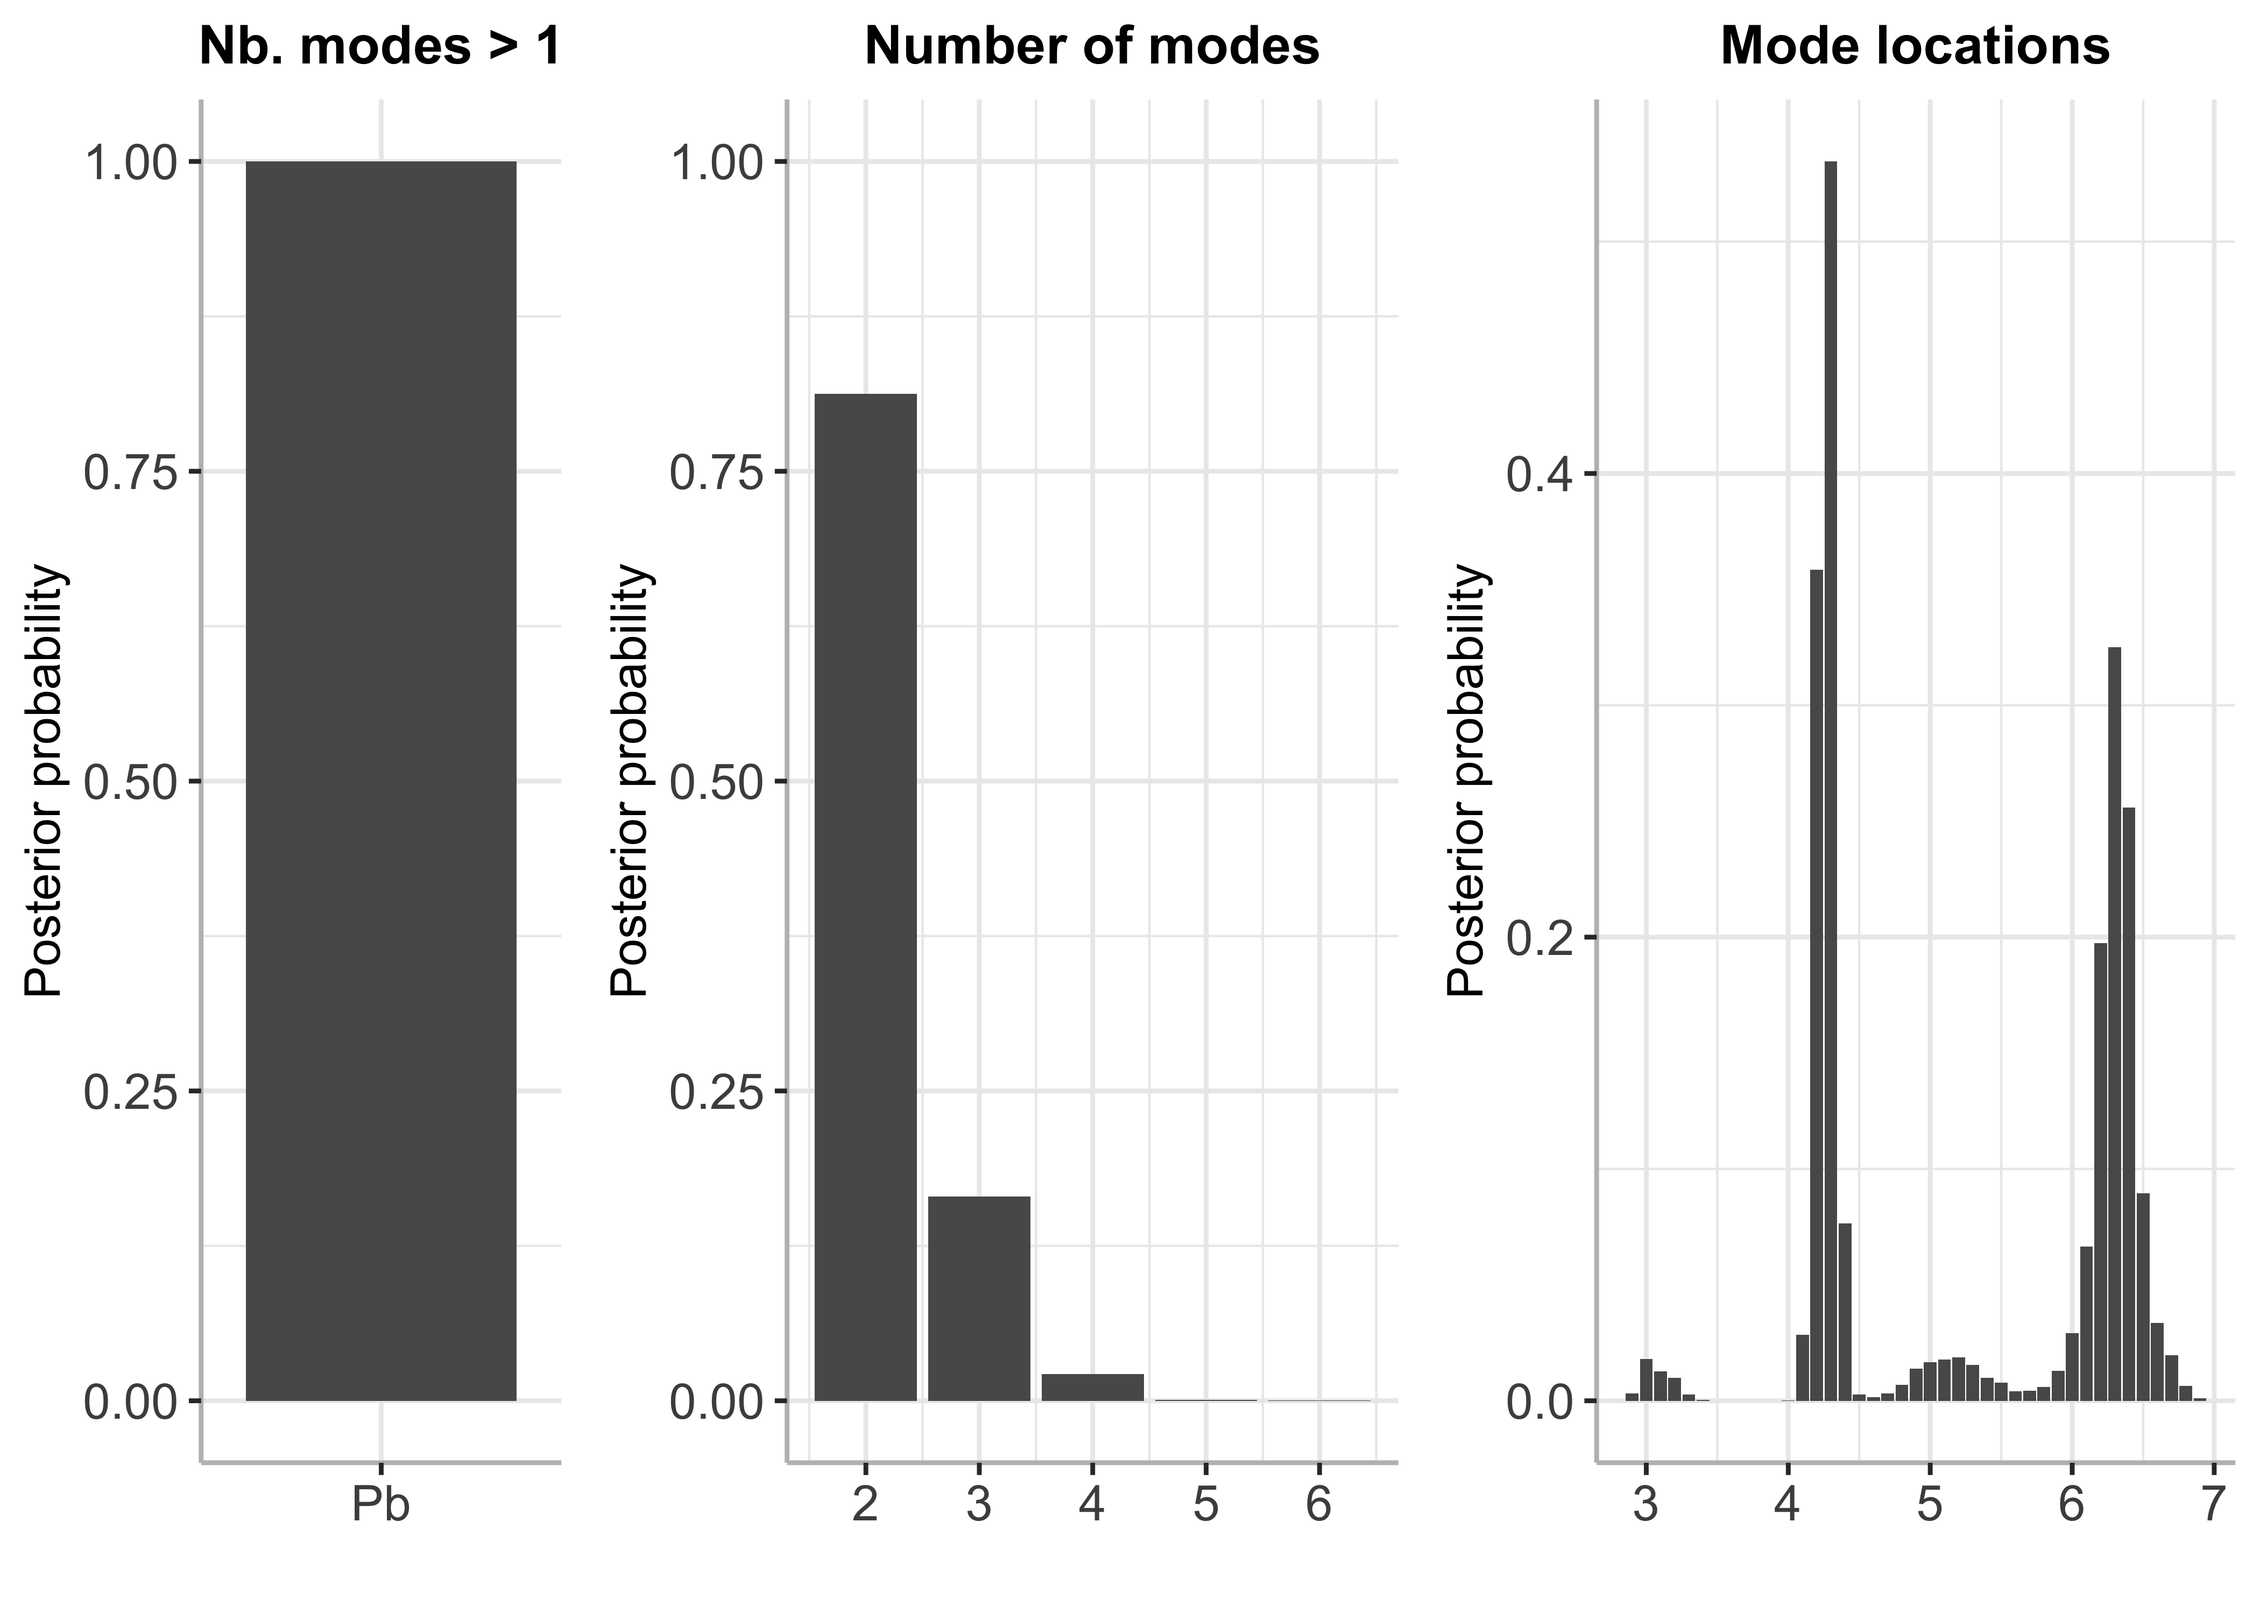
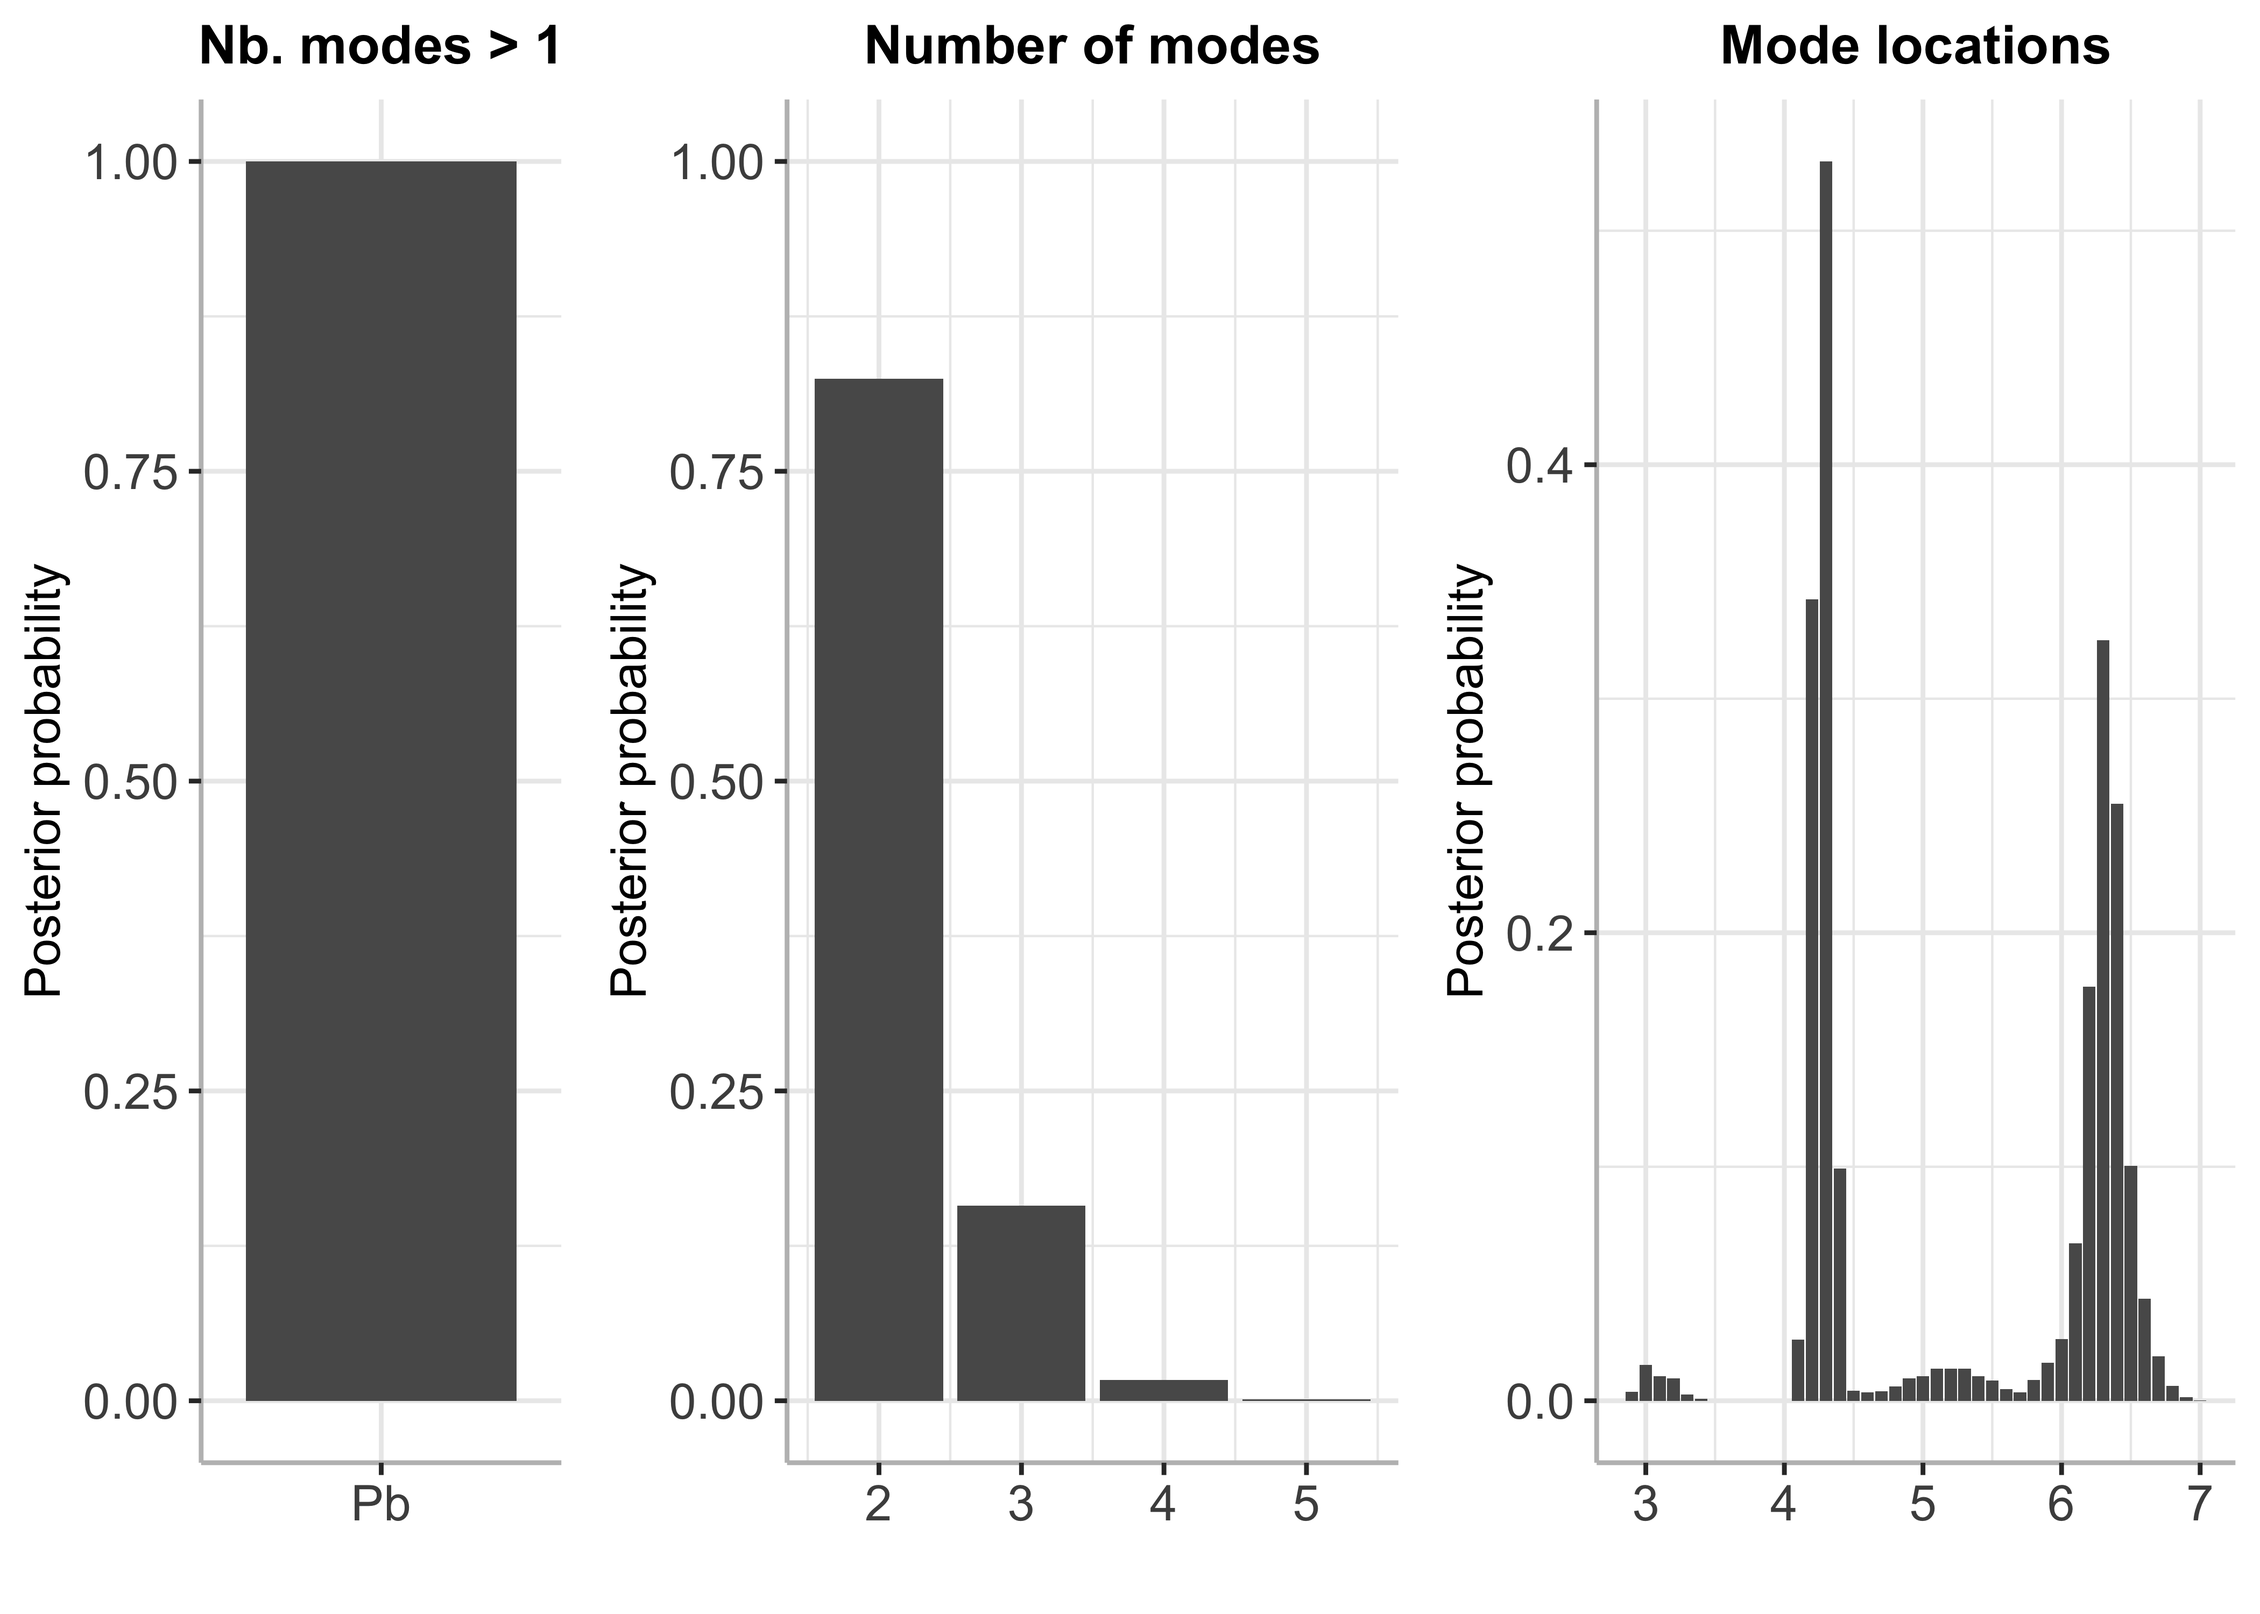
updated readme

Changed region(s): [[0.655, 0.062, 0.9981, 0.961], [0.3431, 0.062, 0.5926, 0.961], [0.7798, 0.899, 0.811, 0.93]]

diff --git a/README.md b/README.md
@@ -47,13 +47,12 @@ and discrete.
 
 ``` r
 # retrieve acidity data
-# y = multimode::acidity
-y = d4z4
+y = acidity
 
 # estimation
 bayesmix = bayes_estimation(data = y,
                             K = 5,
-                            dist = "shifted_poisson",
+                            dist = "skew_normal",
                             nb_iter = 2000,
                             burnin = 1000)
 ```
@@ -74,17 +73,13 @@ bayesmix = bayes_estimation(data = y,
 plot(bayesmix, max_size = 200)
 ```
 
-    ## Warning: Removed 41 rows containing missing values (`position_stack()`).
-
-    ## Warning: Removed 86400 rows containing missing values (`geom_line()`).
-
 <img src="README_files/figure-gfm/unnamed-chunk-4-1.png" width="70%" style="display: block; margin: auto;" />
 
 #### Mode inference
 
 ``` r
 # mode estimation
-bayesmode = bayes_mode(bayesmix)
+bayesmode = bayes_mode(bayesmix, show_plot = F)
 
 # plot 
 plot(bayesmode, max_size = 200)
@@ -102,9 +97,8 @@ summary(bayesmode)
     ## The number of estimated modes and their posterior probabilities is:
 
     ##      Number of modes Posterior probabilty
-    ## [1,]               3                0.003
-    ## [2,]               4                0.068
-    ## [3,]               5                0.929
+    ## [1,]               2                0.977
+    ## [2,]               3                0.023
 
 ### Using BayesMultiMode for mode inference with external MCMC output
 
@@ -117,7 +111,7 @@ package is used for MCMC estimation.
 ``` r
 library(BNPmix)
 
-y = multimode::acidity
+y = acidity
 
 ## estimation
 PY_result = PYdensity(y,
@@ -125,18 +119,18 @@ PY_result = PYdensity(y,
                      output = list(out_param = TRUE))
 ```
 
-    ## Completed:   1000/10000 - in 0.110366 sec
-    ## Completed:   2000/10000 - in 0.22061 sec
-    ## Completed:   3000/10000 - in 0.337596 sec
-    ## Completed:   4000/10000 - in 0.455925 sec
-    ## Completed:   5000/10000 - in 0.576245 sec
-    ## Completed:   6000/10000 - in 0.695143 sec
-    ## Completed:   7000/10000 - in 0.814366 sec
-    ## Completed:   8000/10000 - in 0.933063 sec
-    ## Completed:   9000/10000 - in 1.06379 sec
-    ## Completed:   10000/10000 - in 1.18592 sec
+    ## Completed:   1000/10000 - in 0.093852 sec
+    ## Completed:   2000/10000 - in 0.184289 sec
+    ## Completed:   3000/10000 - in 0.274799 sec
+    ## Completed:   4000/10000 - in 0.360535 sec
+    ## Completed:   5000/10000 - in 0.45362 sec
+    ## Completed:   6000/10000 - in 0.54145 sec
+    ## Completed:   7000/10000 - in 0.634023 sec
+    ## Completed:   8000/10000 - in 0.722045 sec
+    ## Completed:   9000/10000 - in 0.807763 sec
+    ## Completed:   10000/10000 - in 0.894157 sec
     ## 
-    ## Estimation done in 1.18593 seconds
+    ## Estimation done in 0.894165 seconds
 
 ``` r
 plot(PY_result)
@@ -208,11 +202,10 @@ summary(bayesmode)
     ## The number of estimated modes and their posterior probabilities is:
 
     ##      Number of modes Posterior probabilty
-    ## [1,]               2               0.8126
-    ## [2,]               3               0.1648
-    ## [3,]               4               0.0216
-    ## [4,]               5               0.0008
-    ## [5,]               6               0.0002
+    ## [1,]               2               0.8246
+    ## [2,]               3               0.1576
+    ## [3,]               4               0.0166
+    ## [4,]               5               0.0012
 
 ### References
 
